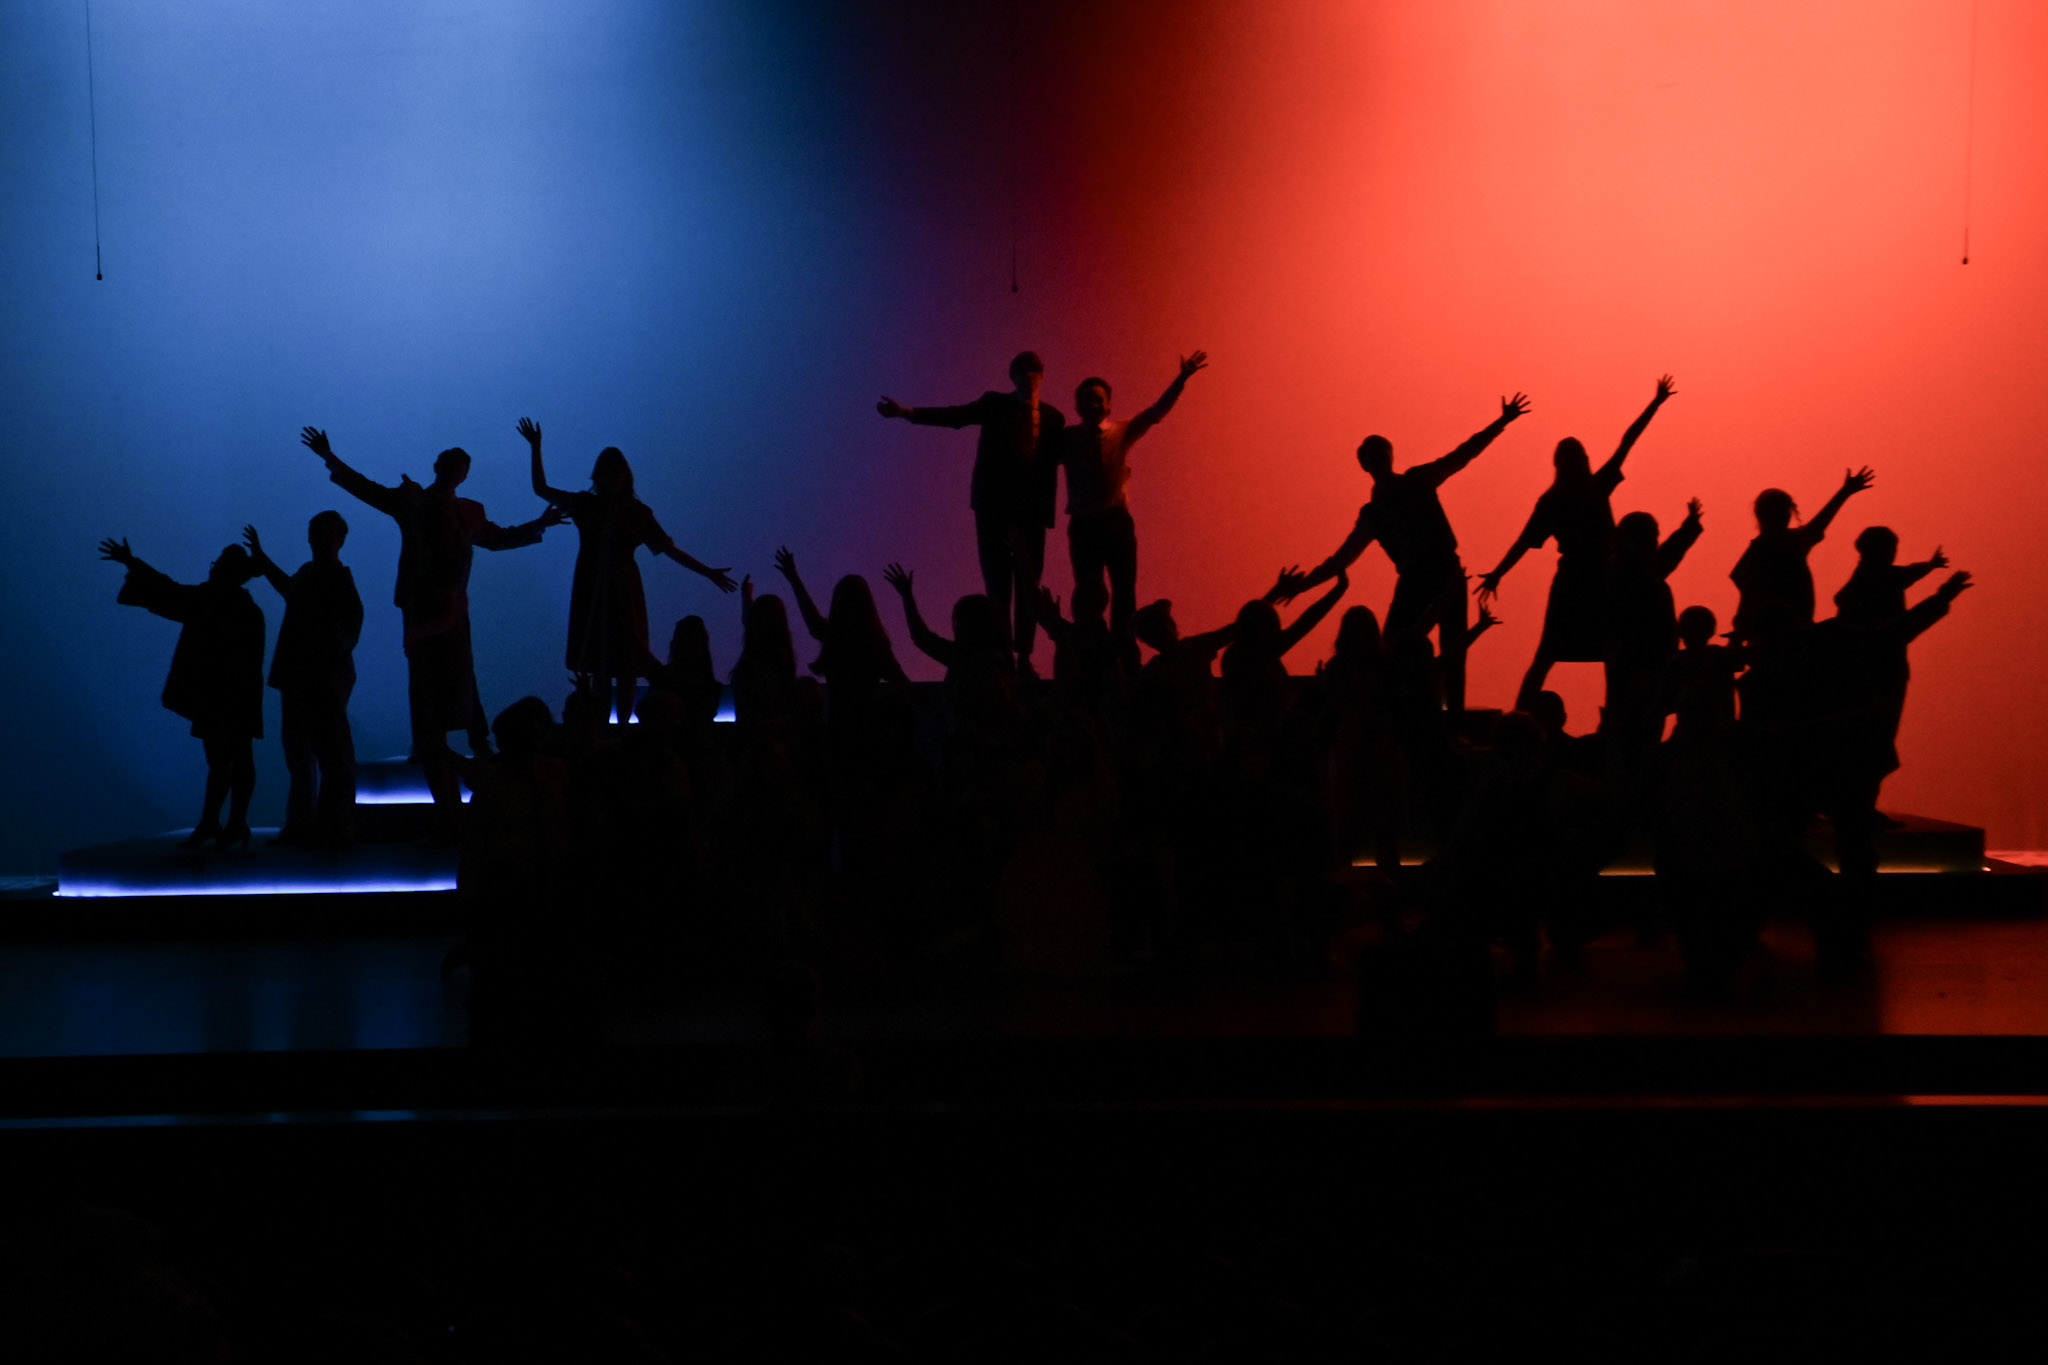
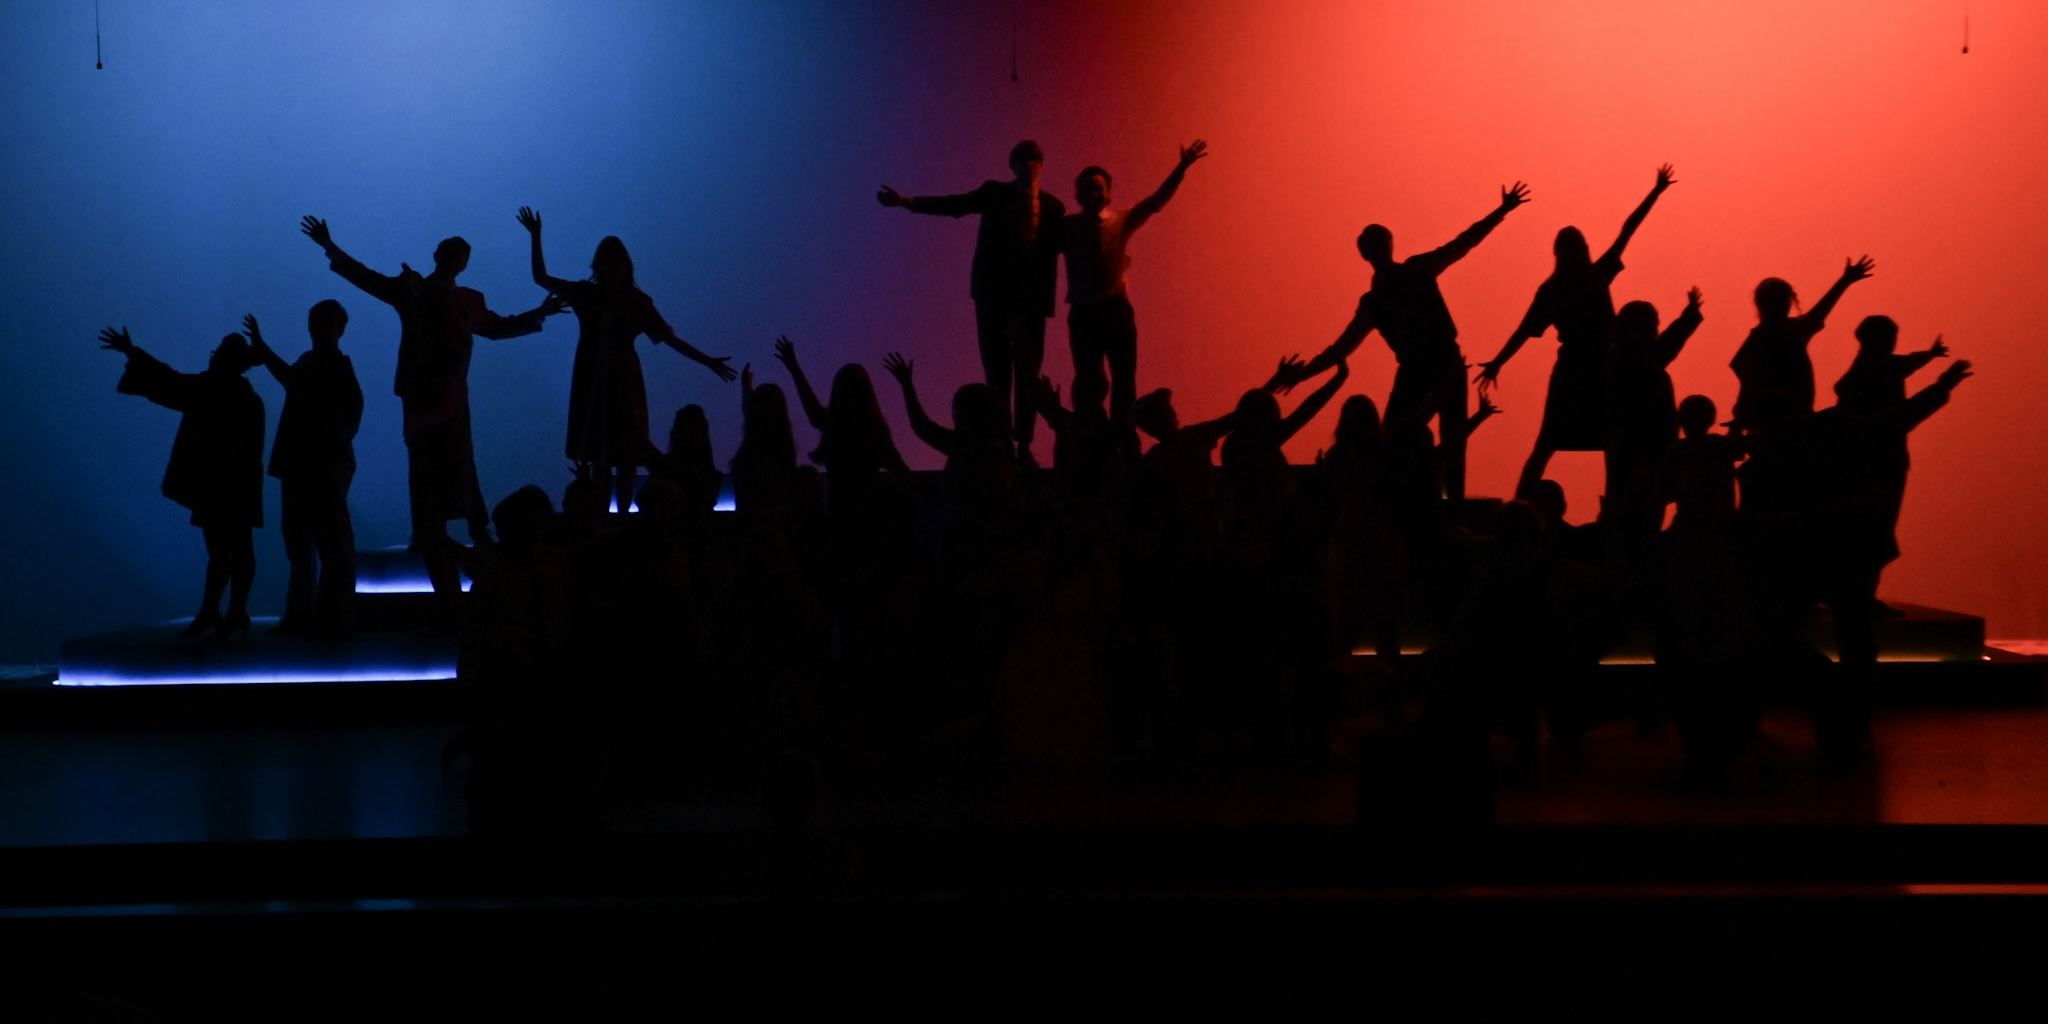
fixed hero

diff --git a/app/page.tsx b/app/page.tsx
@@ -22,21 +22,30 @@ export default function Home() {
       {/* Hero */}
       <section
         id="home"
-        className="relative isolate min-h-[540px] overflow-hidden sm:min-h-[650px] bg-black"
+        className="relative isolate  overflow-hidden  bg-black"
       >
-        <Image
-          src={photos.hero}
-          alt="A theater stage ready for a performance"
-          fill
-          className="absolute inset-0 -z-20 w-full object-cover !top-[-12vw]"
-        />
+        <div className="absolute inset-0 -z-20 overflow-hidden">
+          <div
+            className="absolute left-1/2 top-0 -translate-x-1/2"
+            style={{ width: "min(100vw, 1440px)", height: "100%" }}
+          >
+            <Image
+              src={photos.hero}
+              alt="A theater stage ready for a performance"
+              width={2048}
+              height={1024}
+              priority
+              className="w-full object-cover"
+            />
+          </div>
+        </div>
         <div className="absolute inset-0 -z-10 bg-gradient-to-r from-black-900/90 via-black-800/75 to-black-800/20" />
 
-        <div className="mx-auto flex min-h-[540px] max-w-7xl items-center px-5 py-20 sm:min-h-[650px] sm:px-8">
+        <div className="mx-auto flex  max-w-7xl items-center px-5 pt-0 pb-20 sm:px-8">
           <div className="text-center mx-auto">
-            <h1 className="mt-[20vw] font-serif text-5xl leading-[1.05] tracking-tight text-white sm:text-6xl lg:text-7xl">
+            <h1 className="mt-[clamp(100px,27vw,400px)] font-serif text-5xl leading-[1.05] tracking-tight text-white sm:text-6xl lg:text-7xl">
               Great shows
-              <br />
+              <br aria-hidden="true" />
               take a <span className="text-gold-300">team</span>
             </h1>
 
